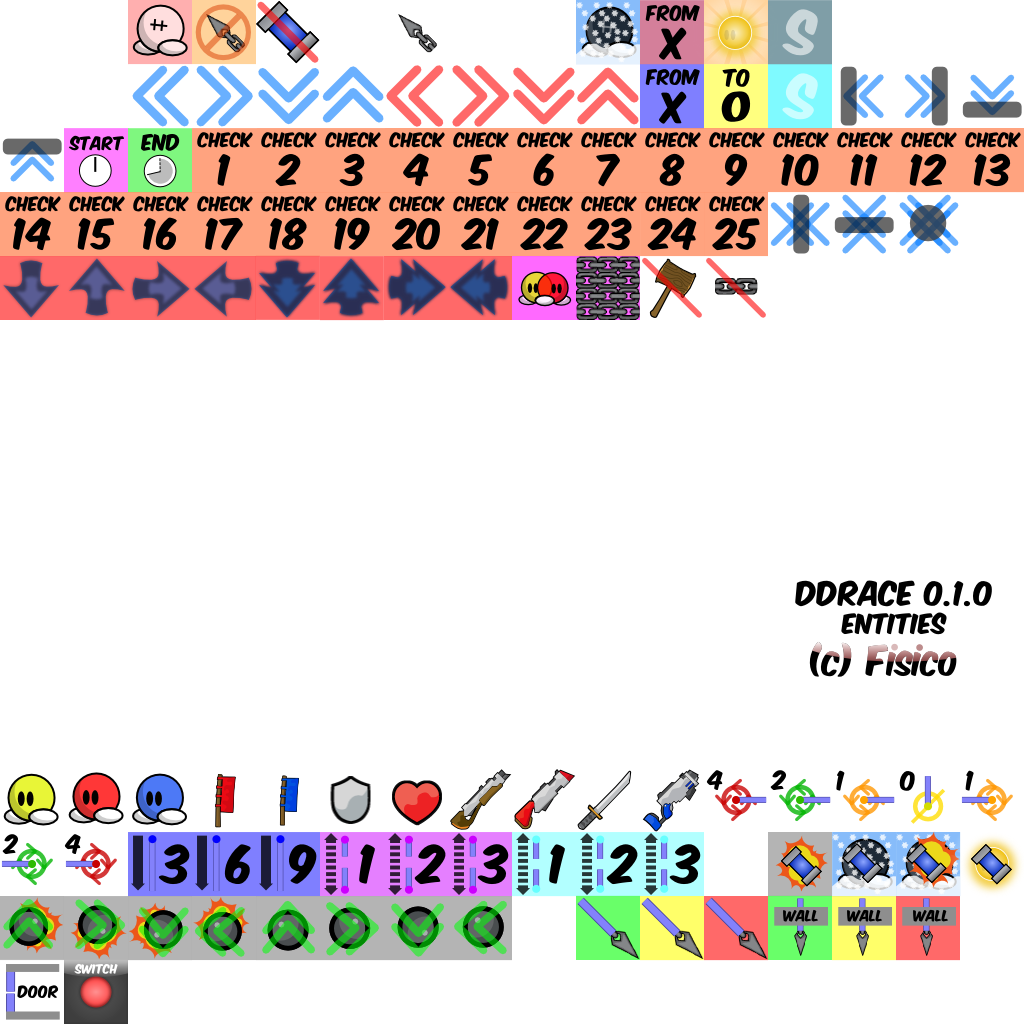
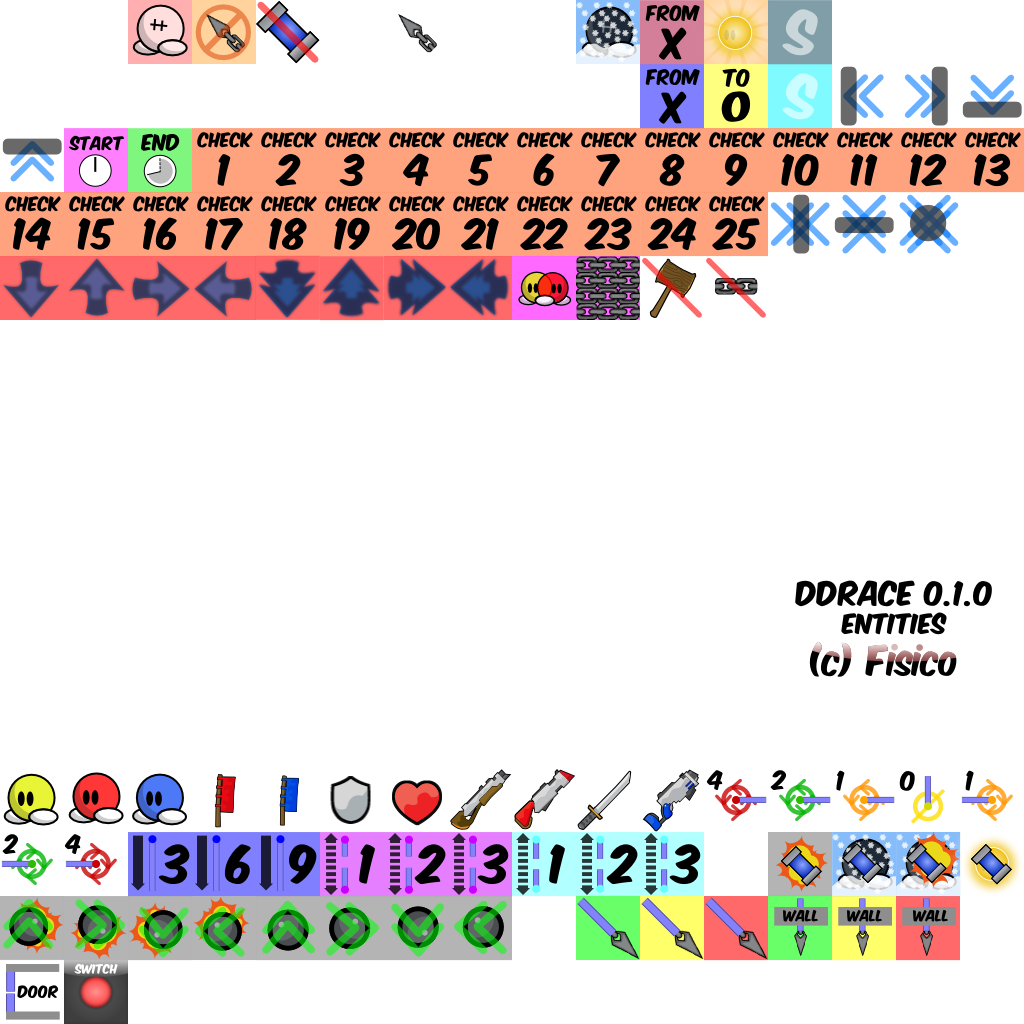
Removed multipliers and changed initial layer size

Changed region(s): [[0.125, 0.0625, 0.625, 0.125]]

diff --git a/src/game/server/entities/character.cpp b/src/game/server/entities/character.cpp
@@ -867,86 +867,6 @@ void CCharacter::Tick()
 				m_Core.m_Vel.y = 0;
 				m_Core.m_Jumped = 0;
 			}
-			if (m_TileIndex == TILE_BOOST_L || m_TileFIndex == TILE_BOOST_L)
-			{
-				if((int)GameServer()->Collision()->GetPos(MapIndexL).x)
-					if((int)GameServer()->Collision()->GetPos(MapIndexL).x < (int)m_Core.m_Pos.x)
-						m_Core.m_Pos = m_PrevPos;
-				if(m_PrevPos.x-m_Pos.x<0)
-					m_Core.m_Vel.x += m_Core.m_Vel.x *-0.5;
-				else if(m_LastBooster != MapIndex)
-					m_Core.m_Vel.x += m_Core.m_Vel.x*0.5;
-			}
-			if (m_TileIndex == TILE_BOOST_R || m_TileFIndex == TILE_BOOST_R)
-			{
-				if((int)GameServer()->Collision()->GetPos(MapIndexR).x)
-					if((int)GameServer()->Collision()->GetPos(MapIndexR).x > (int)m_Core.m_Pos.x)
-						m_Core.m_Pos = m_PrevPos;
-				if(m_PrevPos.x-m_Pos.x>0)
-					m_Core.m_Vel.x += m_Core.m_Vel.x *-0.5;
-				else if(m_LastBooster != MapIndex)
-					m_Core.m_Vel.x += m_Core.m_Vel.x*0.5;
-			}
-			if (m_TileIndex == TILE_BOOST_D || m_TileFIndex == TILE_BOOST_D)
-			{
-				if((int)GameServer()->Collision()->GetPos(MapIndexB).y)
-					if((int)GameServer()->Collision()->GetPos(MapIndexB).y > (int)m_Core.m_Pos.y)
-						m_Core.m_Pos = m_PrevPos;
-				if(m_PrevPos.y-m_Pos.y>0)
-					m_Core.m_Vel.y += m_Core.m_Vel.y *-0.5;
-				else if(m_LastBooster != MapIndex)
-					m_Core.m_Vel.y += m_Core.m_Vel.y*0.5;
-			}
-			if (m_TileIndex == TILE_BOOST_U || m_TileFIndex == TILE_BOOST_U)
-			{
-				if((int)GameServer()->Collision()->GetPos(MapIndexT).y)
-					if((int)GameServer()->Collision()->GetPos(MapIndexT).y < (int)m_Core.m_Pos.y)
-						m_Core.m_Pos = m_PrevPos;
-				if(m_PrevPos.y-m_Pos.y<0)
-					m_Core.m_Vel.y += m_Core.m_Vel.y *-0.5;
-				else if(m_LastBooster != MapIndex)
-					m_Core.m_Vel.y += m_Core.m_Vel.y*0.5;
-			}
-			if ((m_TileIndex == TILE_BOOST_L2 || m_TileFIndex == TILE_BOOST_L2) && (m_LastBooster != MapIndex))
-			{
-				if((int)GameServer()->Collision()->GetPos(MapIndexL).x)
-					if((int)GameServer()->Collision()->GetPos(MapIndexL).x < (int)m_Core.m_Pos.x)
-						m_Core.m_Pos = m_PrevPos;
-				if(m_PrevPos.x-m_Pos.x<0)
-					m_Core.m_Vel.x = m_Core.m_Vel.x *-1.1;
-				else
-					m_Core.m_Vel.x += m_Core.m_Vel.x*1.1;
-			}
-			if ((m_TileIndex == TILE_BOOST_R2|| m_TileFIndex == TILE_BOOST_R2) && (m_LastBooster != MapIndex))
-			{
-				if((int)GameServer()->Collision()->GetPos(MapIndexR).x)
-					if((int)GameServer()->Collision()->GetPos(MapIndexR).x > (int)m_Core.m_Pos.x)
-						m_Core.m_Pos = m_PrevPos;
-				if(m_Core.m_Vel.x < 0)
-					m_Core.m_Vel.x = m_Core.m_Vel.x *-1.1;
-				else
-					m_Core.m_Vel.x += m_Core.m_Vel.x*1.1;
-			}
-			if ((m_TileIndex == TILE_BOOST_D2 || m_TileFIndex == TILE_BOOST_D2) && (m_LastBooster != MapIndex))
-			{
-				if((int)GameServer()->Collision()->GetPos(MapIndexB).y)
-					if((int)GameServer()->Collision()->GetPos(MapIndexB).y > (int)m_Core.m_Pos.y)
-						m_Core.m_Pos = m_PrevPos;
-				if(m_PrevPos.y-m_Pos.y>0)
-					m_Core.m_Vel.y = m_Core.m_Vel.y *-1.1;
-				else
-					m_Core.m_Vel.y += m_Core.m_Vel.y*1.1;
-			}
-			if ((m_TileIndex == TILE_BOOST_U2 || m_TileFIndex == TILE_BOOST_U2) && (m_LastBooster != MapIndex))
-			{
-				if((int)GameServer()->Collision()->GetPos(MapIndexT).y)
-					if((int)GameServer()->Collision()->GetPos(MapIndexT).y < (int)m_Core.m_Pos.y)
-						m_Core.m_Pos = m_PrevPos;
-				if(m_PrevPos.y-m_Pos.y<0)
-					m_Core.m_Vel.y = m_Core.m_Vel.y *-1.1;
-				else
-					m_Core.m_Vel.y += m_Core.m_Vel.y*1.1;
-			}
 			// handle speedup tiles
 			if(GameServer()->Collision()->IsSpeedup(MapIndex) == TILE_BOOST)
 			{

diff --git a/src/game/editor/ed_popups.cpp b/src/game/editor/ed_popups.cpp
@@ -167,7 +167,7 @@ int CEditor::PopupGroup(CEditor *pEditor, CUIRect View)
 	View.HSplitBottom(12.0f, &View, &Button);
 	static int s_NewQuadLayerButton = 0;
 	//if(pEditor->DoButton_Editor(&s_NewQuadLayerButton, Localize("Add quads layer"), 0, &Button, 0, Localize("Creates a new quad layer")))
-	if(pEditor->DoButton_Editor(&s_NewQuadLayerButton, Localize("Add Quads layer"), 0, &Button, 0, Localize("Creates a new quad layer")))
+	if(pEditor->DoButton_Editor(&s_NewQuadLayerButton, Localize("Add Quads Layer"), 0, &Button, 0, Localize("Creates a new quad layer")))
 	{
 		CLayer *l = new CLayerQuads;
 		l->m_pEditor = pEditor;
@@ -181,9 +181,9 @@ int CEditor::PopupGroup(CEditor *pEditor, CUIRect View)
 	View.HSplitBottom(12.0f, &View, &Button);
 	static int s_NewTileLayerButton = 0;
 	//if(pEditor->DoButton_Editor(&s_NewTileLayerButton, Localize("Add tile layer"), 0, &Button, 0, Localize("Creates a new tile layer")))
-	if(pEditor->DoButton_Editor(&s_NewTileLayerButton, Localize("Add Tile layer"), 0, &Button, 0, Localize("Creates a new tile layer")))
+	if(pEditor->DoButton_Editor(&s_NewTileLayerButton, Localize("Add Tile Layer"), 0, &Button, 0, Localize("Creates a new tile layer")))
 	{
-		CLayer *l = new CLayerTiles(50, 50);
+		CLayer *l = new CLayerTiles(pEditor->m_Map.m_pGameLayer->m_Width, pEditor->m_Map.m_pGameLayer->m_Height);
 		l->m_pEditor = pEditor;
 		pEditor->m_Map.m_lGroups[pEditor->m_SelectedGroup]->AddLayer(l);
 		pEditor->m_SelectedLayer = pEditor->m_Map.m_lGroups[pEditor->m_SelectedGroup]->m_lLayers.size()-1;

diff --git a/src/game/mapitems.h b/src/game/mapitems.h
@@ -104,15 +104,7 @@ enum
 	TILE_TELEINEVIL,
 	TILE_UNFREEZE,
 	TILE_BOOSTS,
-	TILE_BOOST_L=18,
-	TILE_BOOST_R,
-	TILE_BOOST_D,
-	TILE_BOOST_U,
-	TILE_BOOST_L2,
-	TILE_BOOST_R2,
-	TILE_BOOST_D2,
-	TILE_BOOST_U2,
-	TILE_TELEIN,
+	TILE_TELEIN=26,
 	TILE_TELEOUT,
 	TILE_BOOST,
 	TILE_STOPL,
